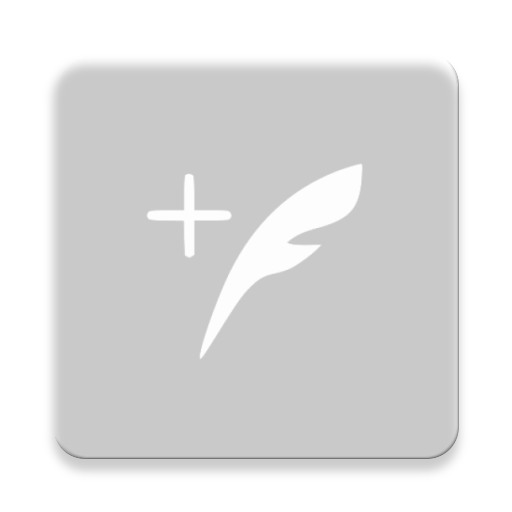
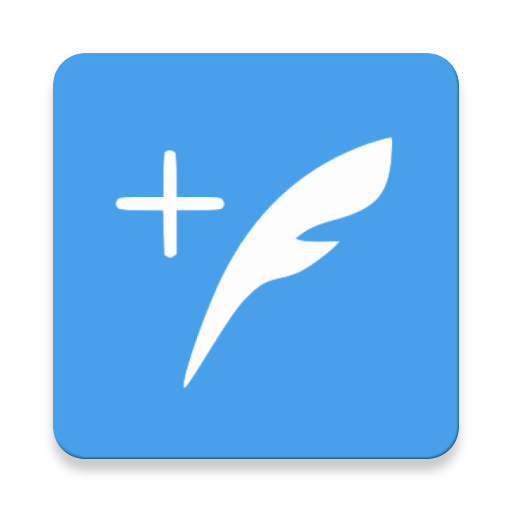
Improve the user interface and theme the app to feel "twitter branded" with colors and styles

diff --git a/app/src/main/java/com/codepath/apps/restclienttemplate/TimelineActivity.java b/app/src/main/java/com/codepath/apps/restclienttemplate/TimelineActivity.java
@@ -1,6 +1,8 @@
 package com.codepath.apps.restclienttemplate;
 
 import android.content.Intent;
+import android.graphics.drawable.ColorDrawable;
+import android.graphics.drawable.Drawable;
 import android.support.v4.widget.SwipeRefreshLayout;
 import android.support.v7.app.AppCompatActivity;
 import android.os.Bundle;
@@ -84,6 +86,7 @@ public class TimelineActivity extends AppCompatActivity {
     @Override
     public boolean onCreateOptionsMenu(Menu menu) {
         getMenuInflater().inflate(R.menu.menu_main, menu);
+        getSupportActionBar().setBackgroundDrawable(new ColorDrawable(getResources().getColor(R.color.twitter_blue)));
         return true;
     }
 
